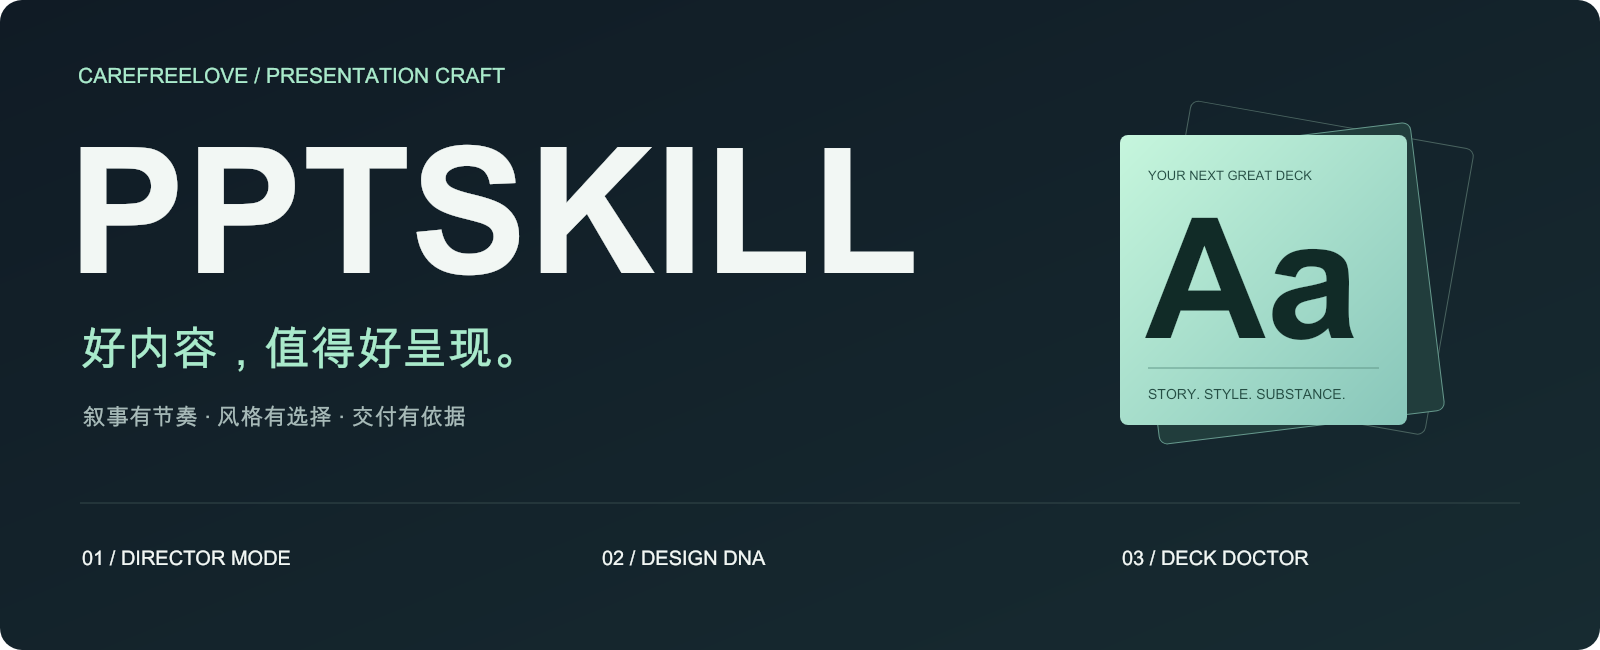
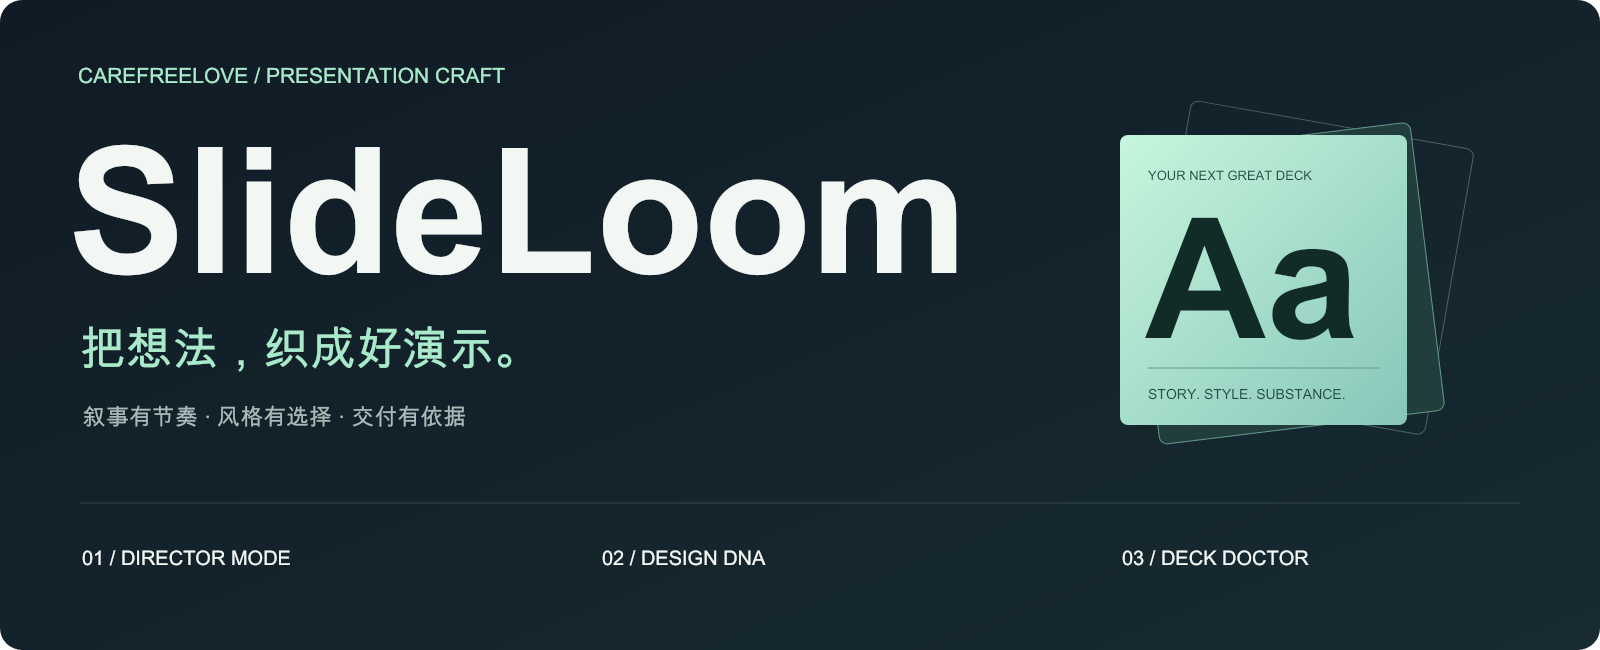
refactor: rename PPTSKILL to SlideLoom across skill, docs and visual identity

diff --git a/README.md b/README.md
@@ -1,5 +1,5 @@
 <p align="center">
-  <img src="assets/hero.png" width="100%" alt="PPTSKILL：好内容，值得好呈现。叙事分镜、视觉预设、逐页检查。" />
+  <img src="assets/hero.png" width="100%" alt="SlideLoom：把想法，织成好演示。叙事分镜、视觉预设、逐页检查。" />
 </p>
 
 <p align="center">
@@ -10,12 +10,14 @@
 </p>
 
 <p align="center">
-  <a href="https://github.com/carefreelove/pptskill/actions/workflows/quality.yml"><img src="https://github.com/carefreelove/pptskill/actions/workflows/quality.yml/badge.svg" alt="Skill checks" /></a>
+  <a href="https://github.com/carefreelove/slideloom/actions/workflows/quality.yml"><img src="https://github.com/carefreelove/slideloom/actions/workflows/quality.yml/badge.svg" alt="Skill checks" /></a>
 </p>
 
 **把资料组织成观点，把观点做成可编辑的幻灯片。**
 
-PPTSKILL 是 [carefreelove](https://github.com/carefreelove) 打磨的 Codex 演示文稿 skill。它把叙事、中文排版与交付检查放进同一条工作流，适合产品发布、经营汇报、课程讲解，也适合只修改现有 PPT 的几页。
+**SlideLoom（幻灯织机）**，把零散资料织成有节奏的演示。
+
+SlideLoom 是 [carefreelove](https://github.com/carefreelove) 打磨的 Codex 演示文稿 skill。它把叙事、中文排版与交付检查放进同一条工作流，适合产品发布、经营汇报、课程讲解，也适合只修改现有 PPT 的几页。
 
 ## 看见风格
 
@@ -37,18 +39,20 @@ PPTSKILL 是 [carefreelove](https://github.com/carefreelove) 打磨的 Codex 演
 
 ```bash
 mkdir -p .agents/skills
-git clone https://github.com/carefreelove/pptskill.git .agents/skills/pptskill
+git clone https://github.com/carefreelove/slideloom.git .agents/skills/slideloom
 ```
 
 然后把资料交给 Codex：
 
 ```text
-使用 $pptskill，把附件整理成一份 8 页中文产品发布稿。
+使用 $slideloom，把附件整理成一份 8 页中文产品发布稿。
 面向潜在客户，讲述时间 6 分钟，选择 midnight 风格。
 先组织逐页重点，再生成可编辑 PPT。缺失数据不要编造。
 ```
 
-也可以放入个人目录 `~/.agents/skills/pptskill`。已有同名目录时先检查，不直接覆盖。未被发现时重启 Codex。安装机制见 [OpenAI 官方文档](https://learn.chatgpt.com/docs/build-skills)。
+已安装旧版时，将 skill 文件夹改为 `slideloom`，并改用 `$slideloom` 调用。
+
+也可以放入个人目录 `~/.agents/skills/slideloom`。已有同名目录时先检查，不直接覆盖。未被发现时重启 Codex。安装机制见 [OpenAI 官方文档](https://learn.chatgpt.com/docs/build-skills)。
 
 ## 三个工作方式
 
@@ -57,7 +61,7 @@ git clone https://github.com/carefreelove/pptskill.git .agents/skills/pptskill
 先明确每页的目的、证据和视觉，再分配讲述时间。支持从完整资料压缩成短演讲，也支持先交大纲。缩短时保留影响结论的限制条件，不靠删掉反面证据来增强说服力。
 
 ```text
-使用 $pptskill，把这份材料组织成 5 分钟的汇报。
+使用 $slideloom，把这份材料组织成 5 分钟的汇报。
 每页给出目的、证据、视觉形式和预计用时，先只交分镜。
 ```
 
@@ -68,7 +72,7 @@ git clone https://github.com/carefreelove/pptskill.git .agents/skills/pptskill
 三个预设提供配色、字号起点和布局原则。已有模板时优先保留模板；中文与中英混排都要检查实际字体和换行。
 
 ```text
-使用 $pptskill，把这份研究介绍改成 editorial 风格。
+使用 $slideloom，把这份研究介绍改成 editorial 风格。
 保留全部数据和页数，图表需要可以继续编辑。
 ```
 
@@ -114,7 +118,7 @@ python3 scripts/inspect_pptx.py deck.pptx > inspection.json
 ## 项目结构
 
 ```text
-pptskill/
+slideloom/
 ├── SKILL.md                   # agent 工作入口
 ├── agents/openai.yaml         # Codex 展示信息
 ├── presets/                   # 三种 Design DNA

diff --git a/SKILL.md b/SKILL.md
@@ -1,9 +1,9 @@
 ---
-name: pptskill
+name: slideloom
 description: 创建、修改和检查可编辑的 PowerPoint（.pptx），将资料整理成有叙事节奏的中文演示稿。支持按时长分镜、视觉风格预设、模板保留和逐页检查；仅需大纲时不擅自生成文件。
 ---
 
-# PPTSKILL
+# SlideLoom
 
 将用户的主题、资料或现有演示稿转为适合受众的演示内容，默认交付可编辑的 `.pptx`。用户明确只需大纲、讲稿、审阅意见或其他格式时，按其要求交付。
 
@@ -48,7 +48,7 @@ description: 创建、修改和检查可编辑的 PowerPoint（.pptx），将资
 需要检查 `.pptx` 页数、文本、备注和原生对象数量时，运行随附的只读脚本。将下面路径替换为 skill 的实际目录及输入文件路径：
 
 ```bash
-python3 /path/to/pptskill/scripts/inspect_pptx.py /path/to/deck.pptx > /path/to/work/deck-inspection.json
+python3 /path/to/slideloom/scripts/inspect_pptx.py /path/to/deck.pptx > /path/to/work/deck-inspection.json
 ```
 
 脚本只读取文件，不渲染，也不能判定视觉质量、文本溢出或所有内容是否可编辑。无法使用渲染器时完成结构与内容检查，并明确告知尚未验证页面外观。仅在实际打开并查看 PowerPoint 后才声称完成 PowerPoint 验证。
@@ -56,7 +56,7 @@ python3 /path/to/pptskill/scripts/inspect_pptx.py /path/to/deck.pptx > /path/to/
 需要页数约束、候选占位文本、文字密度等可执行检查时，使用 [Deck Doctor](references/deck-doctor.md)：
 
 ```bash
-python3 /path/to/pptskill/scripts/deck_doctor.py /path/to/deck.pptx --expected-slides 8
+python3 /path/to/slideloom/scripts/deck_doctor.py /path/to/deck.pptx --expected-slides 8
 ```
 
 只在用户确实要求 8 页时传入该值。逐条解释诊断证据，对教学示例中的占位词、全屏照片和重复品牌文字保留人工判断，不机械删除内容。不以无告警或某个分数宣称设计优秀。
